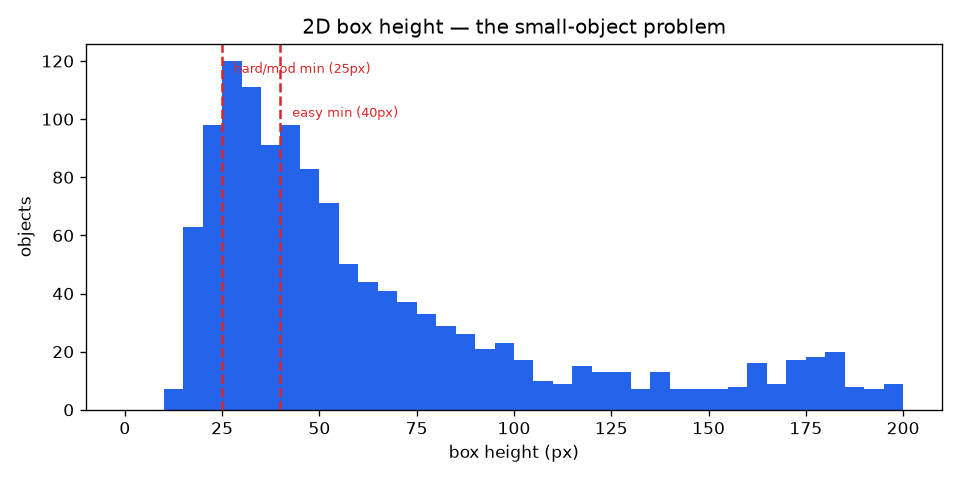
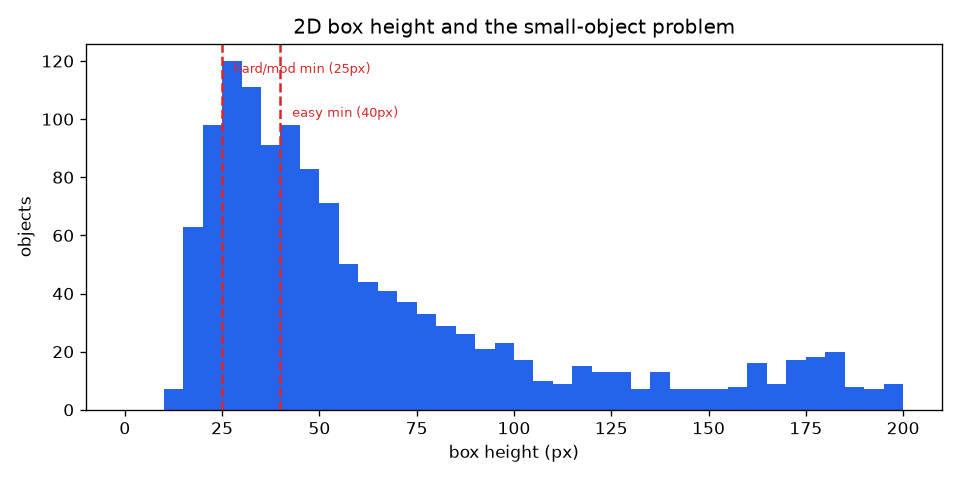
refine wording across docs, comments and reports"

Changed region(s): [[0.3125, 0.0312, 0.7812, 0.0938]]

diff --git a/src/drive_perception/data/stats.py b/src/drive_perception/data/stats.py
@@ -2,7 +2,7 @@
 driving-perception model: class imbalance, the small-object problem, and KITTI's own
 Easy/Moderate/Hard difficulty tiers.
 
-The difficulty tiers are not ours — they are KITTI's official evaluation protocol,
+The difficulty tiers are not ours. They are KITTI's official evaluation protocol,
 defined purely from 2D box height, occlusion and truncation. Profiling them now means
 the mAP we report later can be broken down the same way the benchmark expects.
 """
@@ -21,7 +21,7 @@ import matplotlib.pyplot as plt
 from ..paths import KITTI_RAW, REPORTS
 
 # The three classes this project detects. Everything else in KITTI (Van, Truck, Tram,
-# Misc, Person_sitting, DontCare) is dropped — but we still count it so the imbalance
+# Misc, Person_sitting, DontCare) is dropped, but we still count it so the imbalance
 # is visible rather than hidden.
 KEEP = {"Car": "car", "Pedestrian": "pedestrian", "Cyclist": "cyclist"}
 
@@ -145,14 +145,14 @@ def _plots(objs: list[Obj], summary: dict, out: Path) -> None:
     for x, label, y_frac in [(25, "hard/mod min (25px)", 0.92), (40, "easy min (40px)", 0.80)]:
         plt.axvline(x, color="#dc2626", linestyle="--")
         plt.text(x + 3, top * y_frac, label, color="#dc2626", fontsize=8)
-    plt.title("2D box height — the small-object problem")
+    plt.title("2D box height and the small-object problem")
     plt.xlabel("box height (px)")
     plt.ylabel("objects")
     plt.tight_layout()
     plt.savefig(out / "box_height_distribution.png", dpi=120)
     plt.close()
 
-    # 3. Difficulty tiers per class — the protocol we will report mAP against.
+    # 3. Difficulty tiers per class, the protocol we will report mAP against.
     order = ["easy", "moderate", "hard", "ignored"]
     tier_colors = ["#16a34a", "#eab308", "#f97316", "#94a3b8"]
     classes = list(summary["per_class"])
@@ -173,7 +173,7 @@ def _plots(objs: list[Obj], summary: dict, out: Path) -> None:
 def _markdown(summary: dict) -> str:
     pc = summary["per_class"]
     lines = [
-        "# KITTI subset — exploratory analysis",
+        "# KITTI subset: exploratory analysis",
         "",
         f"- Frames analysed: **{summary['frames']}**",
         f"- Objects total: **{summary['objects_total']}** "
@@ -209,9 +209,9 @@ def _markdown(summary: dict) -> str:
         "## What this means for the model",
         "",
         f"- **Severe class imbalance:** Car:Pedestrian:Cyclist is roughly "
-        f"{car}:{ped}:{cyc}. Cyclist is the scarce class and the one to watch — its AP "
-        "should be reported separately rather than buried in a mean.",
-        f"- **Small, distant objects are the real difficulty, and unevenly so:** "
+        f"{car}:{ped}:{cyc}. Cyclist is the scarce class and the one to watch. Its AP "
+        "should be reported on its own rather than buried in a mean.",
+        f"- **Small, distant objects cause most of the difficulty, unevenly by class:** "
         f"{summary['small_object_fraction']:.0%} of kept objects fall below KITTI's 25 px "
         f"floor. It hits **{worst}** hardest ({ignored_frac(worst):.0%} ignored) and "
         f"**{second}** next ({ignored_frac(second):.0%}); the remaining class sits mostly "

diff --git a/src/drive_perception/data/download.py b/src/drive_perception/data/download.py
@@ -7,7 +7,7 @@ registration or login is needed.
 For a first pass you rarely want all 7,481 training frames. `download_subset` pulls
 just the first N straight out of the remote image archive using HTTP range requests,
 so a working set is a few hundred megabytes instead of twelve gigabytes. Only the
-`training` split is fetched — the `testing` split has no public labels, so it is
+`training` split is fetched. The `testing` split has no public labels, so it is
 useless for the evaluation this project reports.
 """
 
@@ -72,7 +72,7 @@ def _summary() -> tuple[int, int]:
 
 
 def download_subset(n: int, force: bool = False) -> tuple[int, int]:
-    """Fetch the first `n` training frames and their labels — a small, fast working set."""
+    """Fetch the first `n` training frames and their labels, a small and fast working set."""
     ensure_dirs()
     KITTI_RAW.mkdir(parents=True, exist_ok=True)
 
@@ -96,7 +96,7 @@ def download_subset(n: int, force: bool = False) -> tuple[int, int]:
 
 
 def download_full(force: bool = False) -> tuple[int, int]:
-    """Fetch the entire training split — all 7,481 frames and labels (~12 GB)."""
+    """Fetch the entire training split, all 7,481 frames and labels (~12 GB)."""
     ensure_dirs()
     KITTI_RAW.mkdir(parents=True, exist_ok=True)
 

diff --git a/tests/test_stats.py b/tests/test_stats.py
@@ -1,4 +1,4 @@
-"""Fast checks for the KITTI difficulty-tier logic — the one piece of the EDA that
+"""Fast checks for the KITTI difficulty-tier logic, the one piece of the EDA that
 encodes the benchmark protocol and must not drift."""
 
 from drive_perception.data.stats import Obj

diff --git a/README.md b/README.md
@@ -1,39 +1,40 @@
 # drive-perception
 
 Real-time multi-object detection and tracking for driving scenes. A YOLO11 detector
-feeds a ByteTrack tracker to produce stable object IDs across frames on the KITTI
-benchmark, then the detector is exported to ONNX and measured across inference
-backends — CPU, CoreML and TensorRT — so the speed/accuracy trade-off is explicit
-rather than assumed.
+feeds a ByteTrack tracker to keep stable object IDs across frames on the KITTI
+benchmark. The detector is then exported to ONNX and timed on three inference backends
+(CPU, CoreML, and TensorRT), so the speed and accuracy trade-off is measured instead of
+guessed.
 
-The project carries two detector sizes end to end: `yolo11n` as the fast edge target
-and `yolo11s` as the accuracy anchor. Reporting both turns the benchmark into a curve
-a perception engineer can actually read.
+Two detector sizes run through the whole project. `yolo11n` is the fast edge target and
+`yolo11s` is the accuracy anchor. Measuring both gives an accuracy-versus-latency curve
+rather than a single data point.
 
-> **Status:** early build. The roadmap in [docs/ROADMAP.md](docs/ROADMAP.md) tracks
-> what is done and what is next.
+> **Status:** early build. [docs/ROADMAP.md](docs/ROADMAP.md) tracks what is done and
+> what comes next.
 
 ## Why this project
 
-Driving-scene perception — detection, tracking and the deployment work to run it fast
-on constrained hardware — is the core of automotive and robotics computer-vision work.
-This repo is built to show the full path: not just a model that trains, but one that
-exports, quantises, benchmarks honestly, serves over an API and runs in a live demo.
+Driving-scene perception covers detection, tracking, and the deployment work needed to
+run a model fast on limited hardware. That combination sits at the core of most
+automotive and robotics computer-vision roles. This repo walks the full path: a model
+that trains, exports, quantises, reports honest numbers, serves over an API, and runs in
+a live demo.
 
 ## Planned stack
 
-- **Detector:** YOLO11 (`n` + `s`), fine-tuned on KITTI car / pedestrian / cyclist
-- **Tracking:** ByteTrack, with BoT-SORT as a comparison
-- **Dataset:** KITTI 2D object detection + multi-object tracking benchmarks
-- **Runtime:** ONNX Runtime (portable), TensorRT FP16/INT8 (edge, benchmarked on Colab)
-- **Serving:** FastAPI + Docker
-- **Demo:** Streamlit with a live FPS counter
+- Detector: YOLO11 (`n` and `s`), fine-tuned on KITTI car, pedestrian, and cyclist
+- Tracking: ByteTrack, with BoT-SORT as a comparison
+- Dataset: KITTI 2D object detection and multi-object tracking benchmarks
+- Runtime: ONNX Runtime for portability, TensorRT FP16 and INT8 for the edge numbers
+- Serving: FastAPI and Docker
+- Demo: Streamlit with a live FPS counter
 
 ## Metrics reported
 
-- Detection: mAP@0.5 and per-class AP (car / pedestrian / cyclist)
-- Tracking: MOTA, IDF1, ID-switches
-- Deployment: latency / FPS and model size across every backend
+- Detection: mAP@0.5 and per-class AP for car, pedestrian, and cyclist
+- Tracking: MOTA, IDF1, and ID-switches
+- Deployment: latency, FPS, and model size on every backend
 
 ## Development
 
@@ -45,4 +46,4 @@ pytest -m "not slow" -q
 
 ## License
 
-MIT — see [LICENSE](LICENSE).
+MIT. See [LICENSE](LICENSE).

diff --git a/docs/ROADMAP.md b/docs/ROADMAP.md
@@ -1,44 +1,45 @@
 # Build roadmap
 
 The project ships as a sequence of small, self-contained commits grouped into eight
-phases. Each numbered item is one commit. Milestone checkpoints mark the points where
+phases. Each numbered item is one commit. The milestone checkpoints mark points where
 the project is already worth showing even if the rest is unfinished.
 
-Detector backbone is **YOLO11**. Two sizes run through the whole pipeline: `yolo11n`
-is the fast edge/deploy target, `yolo11s` is the accuracy anchor. The benchmark
-reports both so the results read as an accuracy-vs-latency curve, not a single point.
+The detector backbone is YOLO11. Two sizes run through the whole pipeline: `yolo11n` is
+the fast edge and deploy target, and `yolo11s` is the accuracy anchor. The benchmark
+reports both, so the results read as an accuracy-versus-latency curve rather than a
+single point.
 
-## Phase A — Foundation
-1. `chore: git init, .gitignore, MIT license`
+## Phase A: Foundation
+1. `chore: git init, gitignore, MIT license`
 2. `chore: add pyproject and dependencies`
-3. `chore: tooling — ruff, pytest config`
+3. `chore: ruff and pytest tooling config`
 4. `chore: folder skeleton and config loader`
 5. `ci: lint and smoke-test workflow`
 
-## Phase B — Data
+## Phase B: Data
 6. `feat: KITTI download script with subset flag`
-7. `docs: dataset EDA notebook`
+7. `feat: KITTI EDA with difficulty tiers and box-size analysis`
 8. `feat: KITTI to YOLO label converter`
 9. `feat: train/val split and data.yaml`
 
-## Phase C — Detection
+## Phase C: Detection
 10. `feat: detector wrapper with pretrained inference`
 11. `feat: detection visualization module`
 12. `feat: baseline mAP evaluation on KITTI val`
 13. `feat: fine-tune detector on 3 KITTI classes`
 14. `feat: post-finetune eval and before/after report`
 
-## Phase D — Tracking
+## Phase D: Tracking
 15. `feat: download tracking sequences subset`
 16. `feat: ByteTrack tracker wrapper`
 17. `feat: detect-track-annotate pipeline`
 18. `feat: render annotated tracking video`
-19. `feat: tracking metrics — MOTA, IDF1, ID-switches`
+19. `feat: tracking metrics for MOTA, IDF1, ID-switches`
 20. `feat: BoT-SORT comparison row`
 
 **Milestone 1 (after #20):** a complete tracked-detection pipeline with metrics.
 
-## Phase E — Optimization & runtime
+## Phase E: Optimization and runtime
 21. `feat: ONNX export with pinned opset`
 22. `test: torch-vs-ONNX parity check`
 23. `feat: ONNXRuntime backend in detector`
@@ -49,17 +50,17 @@ reports both so the results read as an accuracy-vs-latency curve, not a single p
 
 **Milestone 2 (after #27):** the deployment and edge story.
 
-## Phase F — Serving
+## Phase F: Serving
 28. `feat: FastAPI /detect endpoint`
 29. `feat: FastAPI /track endpoint with validation and health check`
 30. `feat: Dockerfile and docker-compose`
 
-## Phase G — Demo & docs
+## Phase G: Demo and docs
 31. `feat: Streamlit demo with live FPS and controls`
 32. `docs: design.md, README, results, limitations`
 
 **Milestone 3 (after #32):** polished, hire-ready v1.0.
 
-## Phase H — Stretch (optional)
+## Phase H: Stretch (optional)
 33. `feat: monocular depth estimation (Depth Anything)`
 34. `feat: bird's-eye-view overlay`

diff --git a/reports/eda.md b/reports/eda.md
@@ -1,4 +1,4 @@
-# KITTI subset — exploratory analysis
+# KITTI subset: exploratory analysis
 
 - Frames analysed: **300**
 - Objects total: **2142** (kept for training: **1306**)
@@ -15,7 +15,7 @@
 
 ## What this means for the model
 
-- **Severe class imbalance:** Car:Pedestrian:Cyclist is roughly 1094:141:71. Cyclist is the scarce class and the one to watch — its AP should be reported separately rather than buried in a mean.
-- **Small, distant objects are the real difficulty, and unevenly so:** 13% of kept objects fall below KITTI's 25 px floor. It hits **cyclist** hardest (25% ignored) and **car** next (24%); the remaining class sits mostly close and large. Keeping input resolution high matters most for those distant cases.
+- **Severe class imbalance:** Car:Pedestrian:Cyclist is roughly 1094:141:71. Cyclist is the scarce class and the one to watch. Its AP should be reported on its own rather than buried in a mean.
+- **Small, distant objects cause most of the difficulty, unevenly by class:** 13% of kept objects fall below KITTI's 25 px floor. It hits **cyclist** hardest (25% ignored) and **car** next (24%); the remaining class sits mostly close and large. Keeping input resolution high matters most for those distant cases.
 - **Aspect ratios separate the classes cleanly** (car w/h ≈ 1.71, pedestrian ≈ 0.4), a sanity check that the boxes are well-formed and the three classes are visually distinct.
 - **Difficulty tiers are uneven per class**, so a single mAP number would hide where the model actually fails. We report Easy/Moderate/Hard separately, as KITTI does.
